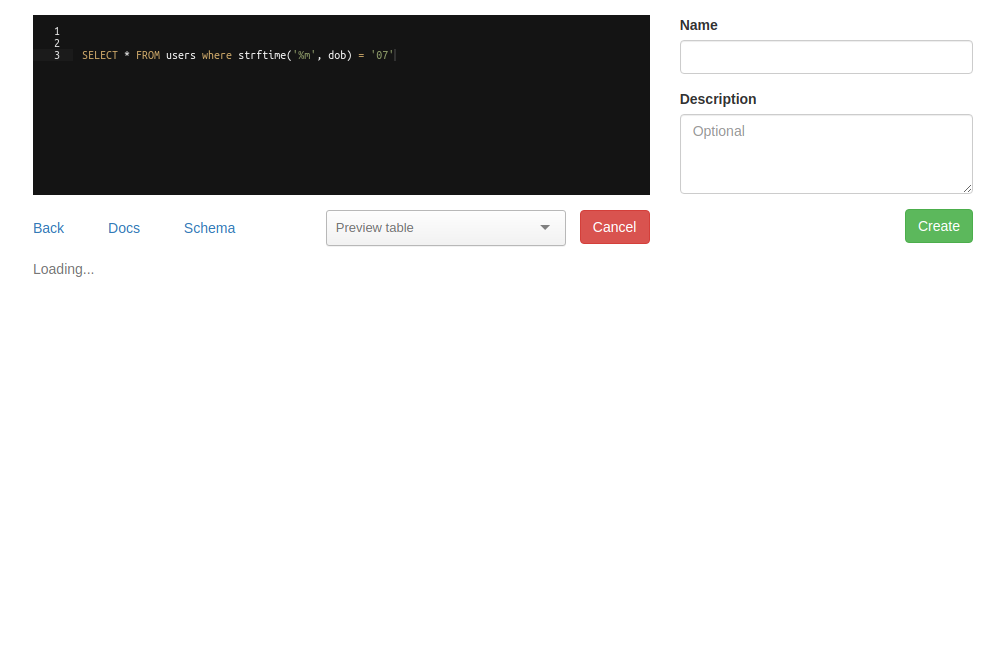
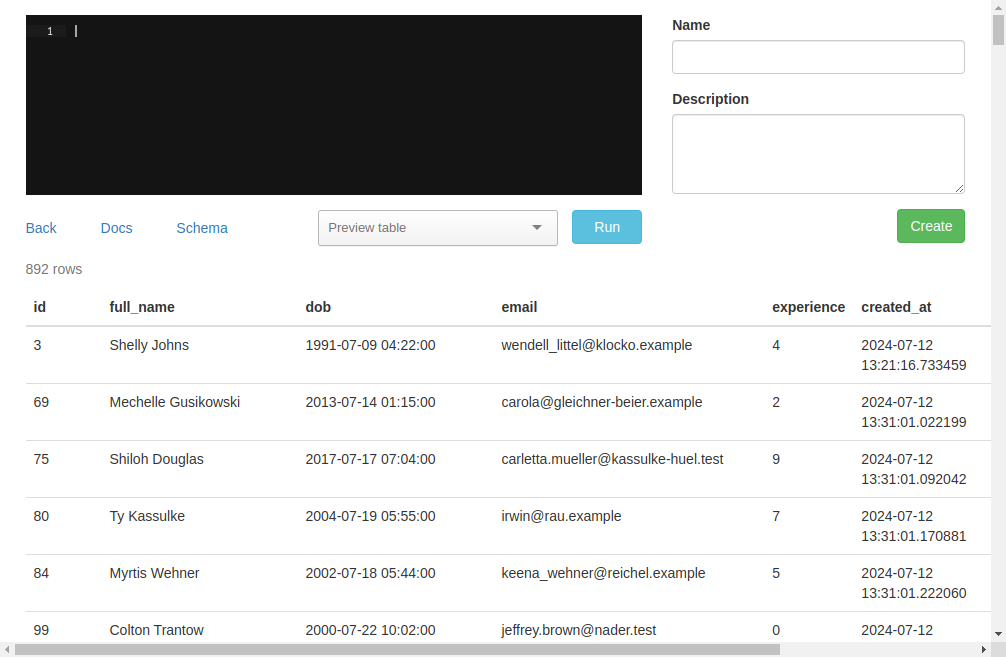
add changes for browser states

diff --git a/src/blazer-project/scenes/browser.tsx b/src/blazer-project/scenes/browser.tsx
@@ -2,11 +2,18 @@ import { Img, Line, makeScene2D, Rect, Txt } from "@motion-canvas/2d"
 import { createRef, Direction, slideTransition, waitFor } from "@motion-canvas/core";
 import { Browser } from "../../assets/nodes/Browser";
 import railsHomeImg from "../images/screenshot_1.png";
-
 import blazerHomeImg from "../images/screenshot_2.png";
+import blazerCreateProject from "../images/screenshot_3.png"
+import blazerWithResult from "../images/screenshot_5.png";
+
+
 export default makeScene2D(function* (view) {
   const browser = createRef<Browser>();
   const lineRef = createRef<Line>();
+  const userRectRef = createRef<Rect>();
+  const queryTxt = createRef<Txt>();
+  const nameTxt = createRef<Txt>();
+  const descTxt = createRef<Txt>();
 
   view.add(
     <Browser height="100%" ref={browser} zIndex={2}>
@@ -41,7 +48,88 @@ export default makeScene2D(function* (view) {
   )
 
   yield* lineRef().end(1, .5).back(.5);
-  yield* waitFor(10);
 
+  yield* browser().navigateToUrl(
+    "http://localhost:3000/biz-analytics/queries/new",
+    <Img src={blazerCreateProject} width="100%" height="100%"/>,
+    1
+  )
+
+
+  view.add(
+    <Rect width="100%" height="100%" fill="black" zIndex={5} opacity={0.9} ref={userRectRef}>
+      <Rect width={500} height={700} fill="gray" opacity={1} layout direction="column" radius={20}> 
+        <Rect width="100%" height={100} layout justifyContent="center" alignItems="center">
+          <Txt fill="white">User</Txt>
+        </Rect>
+        <Line 
+           points={[
+            [-250, -250],
+            [250, -250],
+         
+          ]}
+          stroke={'black'}
+          lineWidth={8}
+        />
+        <Rect layout direction="column" gap={40} padding={20} paddingTop={70}>
+          <Txt fill="white">
+            full_name
+          </Txt>
+          <Txt fill="white">
+            email
+            </Txt>
+          <Txt fill="white">
+            dob
+          </Txt>
+          <Txt fill="white">
+            experience
+          </Txt>
+
+        </Rect>
+      </Rect>
+    </Rect>
+  )
+
+  yield* waitFor(2);
+
+  userRectRef().remove();
+
+  view.add(
+    <Txt ref={queryTxt} position={[-800, -384]} fill="lightgray" zIndex={7} fontSize={24} textAlign="left" offsetX={-1}>
+    </Txt>
+  )
+
+  yield* queryTxt().text("SELECT * FROM users where strftime('%m', dob) = '07'", 2);
+
+  lineRef().points(
+    [
+      [133, -55],
+      [290, -55],
+      [290, 30],
+      [133, 30],
+      [133, -55]
+    ]
+  )
+  
+  yield* lineRef().end(1, 1).back(1);
+
+  browser().setPage(<Img src={blazerWithResult} width="100%" height="100%"/>)
+
+  view.add(
+    <Txt ref={nameTxt} position={[345, -335]} fill="black" zIndex={7} fontSize={24} textAlign="left" offsetX={-1} fontWeight={5}>
+    </Txt>
+  )
+
+  yield* nameTxt().text("DOB", 2);
+
+  view.add(
+    <Txt ref={descTxt} position={[357, -190]} fill="black" zIndex={7} fontSize={24} textAlign="left" offsetX={-1} fontWeight={5}>
+    </Txt>
+  )
+
+  yield* descTxt().text("DOB", 2);
+  yield* waitFor(20);
+
+ 
 
 })

diff --git a/src/assets/nodes/Browser.tsx b/src/assets/nodes/Browser.tsx
@@ -63,4 +63,8 @@ export class Browser extends Rect {
     )
   }
 
+  * navigateToUrl(url: string, node: Node, time: number) {
+    yield* this.url.text(url, time);
+    this.setPage(node);
+  }
 }
